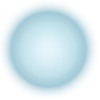
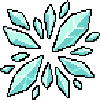
The six worst effect sprites are ours now, and they have shapes
Showdown's fx set is CC0 and its ANIMATIONS are excellent -- the timing,
arcs and staggering in data/moveAnims.ts are theirs and are why the moves
read as moves at all. But eleven of the most-used sprites in it are soft
radial gradients: shadowball, energyball, electroball, mistball, iceball,
flareball and friends are fuzzy coloured circles with no shape, edge or
texture.

Fine on Showdown's small flat dark stage. On this game's detailed painted
backgrounds they are smudges, and it was the ceiling the animations kept
hitting after the timing, the opacity and the blending had each been
fixed in turn. Ice Beam's densest frame rendered as a faint haze because
its sprite was a pale blue blob on a lit cave wall.

Six replaced -- the ones carrying the most moves. Generated as one sheet
and cut by scripts/slice-fx-sheet.mjs, so regenerating the art is two
commands rather than an afternoon in an image editor.

THE SLICER FLOOD-FILLS INWARD FROM THE CORNERS rather than keying every
pixel of the background colour. A plain colour key was the obvious
approach and would have punched holes straight through the white
highlight at the heart of the flame and the glints inside the ice: only
pixels REACHABLE from the border are outside the sprite. It then trims to
the ink and rescales with smoothing off -- smoothing pixel art would undo
the entire reason for the replacement -- to the display sizes already in
battleFxSprites.ts, so the engine and all 234 ported animations are
untouched.
[…]

diff --git a/docs/battle-fx-art.md b/docs/battle-fx-art.md
@@ -1,0 +1,66 @@
+# Battle effect art
+
+Six of the effect sprites in `game/public/fx/` are **ours**, generated rather
+than vendored from Pokémon Showdown. This is how to regenerate them.
+
+## Why they were replaced
+
+Showdown's fx set is CC0 and comprehensive, and its *animations* are excellent
+— the timing, arcs and staggering ported in `data/moveAnims.ts` are theirs and
+are the reason the moves read as moves at all. But eleven of the most-used
+sprites in it are soft radial gradients: `wisp`, `shadowball`, `energyball`,
+`electroball`, `mistball`, `iceball`, `flareball` and friends are literally
+fuzzy coloured circles with no shape, edge or texture.
+
+That is fine on Showdown's small, flat, dark stage. On this game's detailed
+painted backgrounds they read as smudges. It was the ceiling the animations
+kept hitting after the timing, the opacity and the blending had each been
+fixed in turn — Ice Beam's densest frame rendered as a faint haze because its
+sprite was a pale blue blob on a lit cave wall.
+
+The six replaced are the ones that carry the most moves.
+
+## Regenerating
+
+1. Generate a 3×2 sheet with this prompt (Nano Banana Pro, 3:2, 2K, PNG):
+
+   > A set of 2D game visual-effect sprites for a Pokémon-style pixel-art
+   > battle scene, arranged as a 3x2 grid on a pure black background, each
+   > cell containing one effect centred with generous empty margin: (1) a
+   > bright orange-and-yellow flame burst, (2) a crackling yellow electric orb
+   > with jagged arcs, (3) a pale cyan ice crystal shard cluster, (4) a vivid
+   > green energy sphere with an inner glow, (5) a dark purple ghostly shadow
+   > orb with wispy edges, (6) a swirling magenta psychic sphere. Chunky
+   > 16-bit pixel art, hard-edged pixels, limited saturated palette, strong
+   > dark outlines, high contrast, readable at small size, no text, no
+   > characters, no background scenery.
+
+   The grid order matters — `scripts/slice-fx-sheet.mjs` maps cells to sprite
+   names by position. The model tends to return a white background whatever
+   the prompt asks for; that is fine, the slicer keys off the corners.
+
+2. Slice it:
+
+   ```bash
+   node scripts/slice-fx-sheet.mjs path/to/sheet.png
+   ```
+
+   The slicer flood-fills transparency **inward from each cell's corners**
+   rather than keying every pixel of the background colour — a plain colour
+   key punches holes through the white highlight at the heart of the flame
+   and the glints inside the ice. It then trims to the ink and rescales with
+   smoothing off to the display size already declared in
+   `src/data/battleFxSprites.ts`, so nothing downstream changes.
+
+3. Look at them on a real background before committing. `public/fx/` renders
+   fine on a swatch and badly on a cave.
+
+## Licensing
+
+These six are generated for this project and carry no third-party licence.
+Everything else in `public/fx/` is Showdown's CC0 set — see
+`game/public/fx/PROVENANCE.md`, which is generated by `scripts/pull-fx.mjs`
+and records what was deliberately not vendored and why.
+
+Note that re-running `pull-fx.mjs` **overwrites these six**, because it pulls
+the whole vendored list. Re-run the slicer afterwards.
